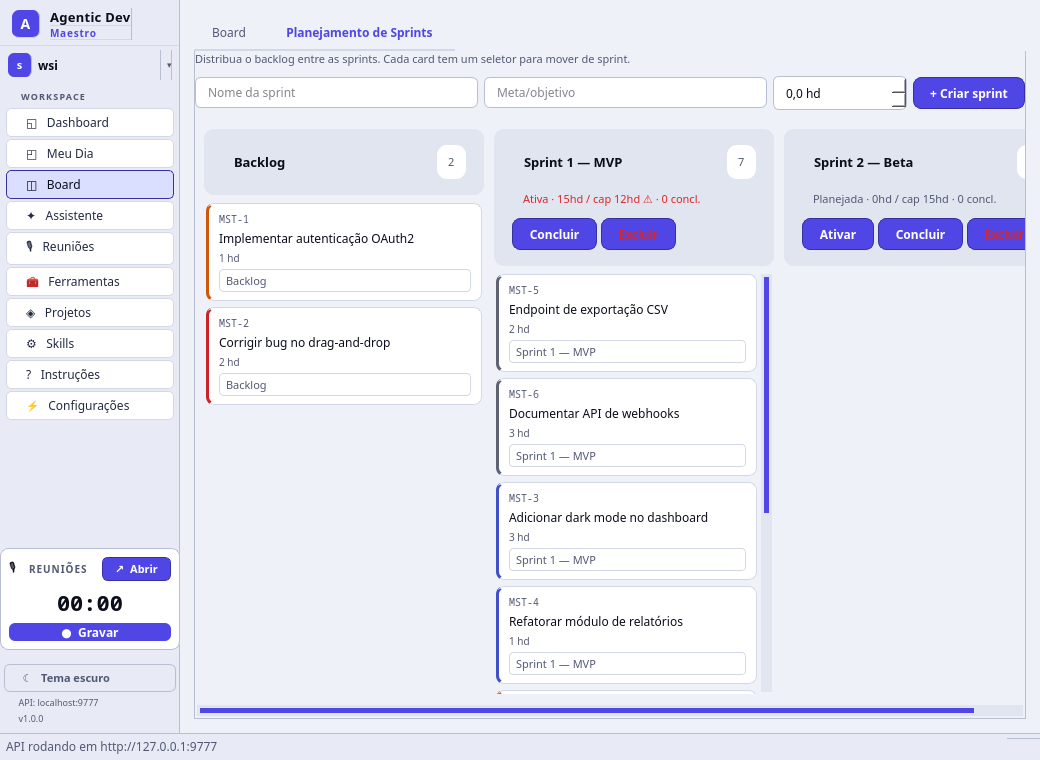
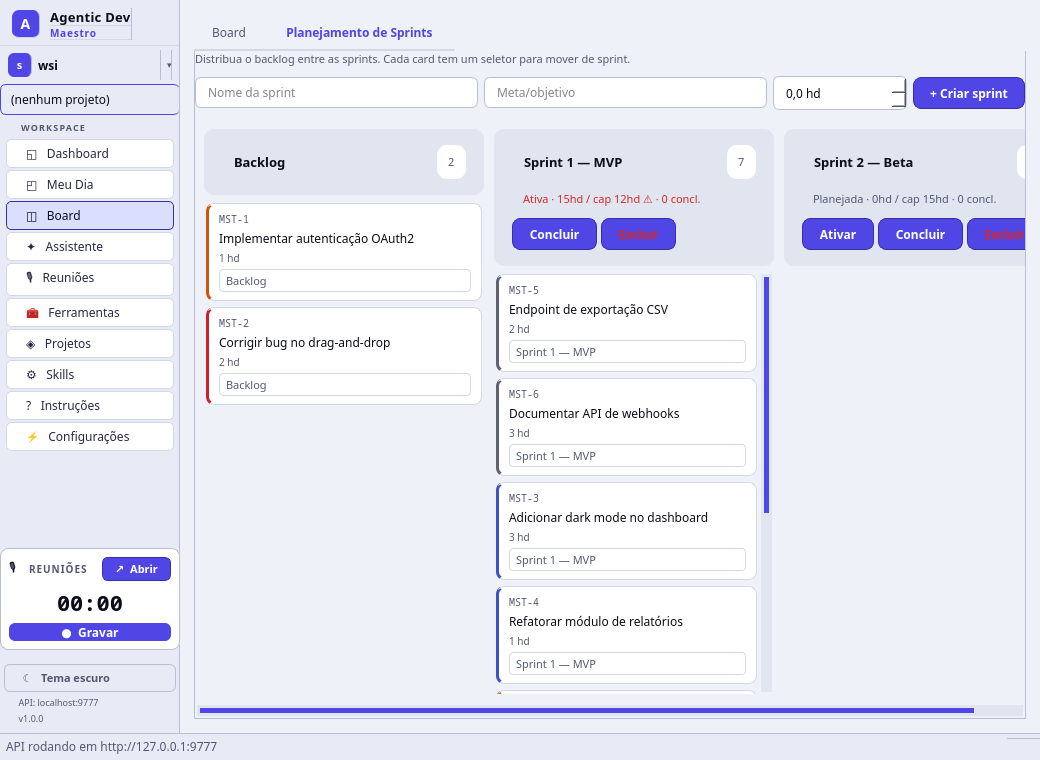
docs: atualizar READMEs e prints com a tela de Reuniões reestruturada
- README (EN/PT): seção de Reuniões reescrita seguindo o fluxo real da tela
  (📁 Destino → 1 Preparar → 2 Gravar → 3 Resultado) e cobrindo o que faltava:
  análise automática, transcrição editável que faz o agente revisar os itens,
  respostas manuais tratadas como informação confirmada, tudo salvo/restaurado
  automaticamente, toggle código/visualização do Markdown, barra de ações
  agrupada, '➕ Nova reunião' e confirmação ao trocar de workspace.
- Prints regenerados: todas as telas refletem a UI atual (inclusive o novo
  seletor de projeto na sidebar).
- gen_screenshots: semeia uma reunião de exemplo no histórico (idempotente),
  para o print mostrar o nome com prefixo de data/hora em vez do estado vazio.

Changed region(s): [[0.0, 0.1211, 0.1846, 0.4539], [0.0308, 0.4842, 0.1231, 0.5447], [0.0615, 0.575, 0.0923, 0.6053]]

diff --git a/local-client/scripts/gen_screenshots.py b/local-client/scripts/gen_screenshots.py
@@ -49,6 +49,31 @@ def seed_demo(session, models):
             # 2 primeiras no backlog; restantes na sprint ativa
             tk.sprint_id = None if i < 2 else s1.id
         session.commit()
+    # Reunião de exemplo no histórico (mostra o nome com prefixo de data/hora)
+    Recording = models.Recording
+    if not session.query(Recording).count():
+        import json as _json
+        from datetime import datetime as _dt
+        session.add(Recording(
+            kind="meeting",
+            title="Exportação de relatórios",
+            transcript=("Ana: precisamos aumentar o limite de linhas da exportação.\n"
+                        "Bruno: hoje trava em 10 mil; o time comercial pediu mais.\n"
+                        "Ana: fechado, 50 mil por arquivo e versionamos por trimestre."),
+            markdown="# Exportação de relatórios\n\n## Decisões\n- Limite de 50 mil linhas\n",
+            live_state_json=_json.dumps({
+                "plan": ["Levantar requisitos", "Prototipar UI", "Implementar e testar"],
+                "tips": ["Validar acessibilidade do tema", "Cobrir exportação com testes"],
+                "action_items": [{"description": "Ajustar validação do CSV", "assignee": "Ana"}],
+                "decisions": ["Limite de 50 mil linhas por arquivo"],
+                "questions": [{"question": "Precisamos versionar os relatórios?",
+                               "answer": "Sim, por trimestre.", "resolved": True}],
+            }, ensure_ascii=False),
+            duration=1830.0, language="pt",
+            created_at=_dt(2026, 7, 13, 9, 30),
+        ))
+        session.commit()
+
     # Plano de estudo
     if not session.query(StudyPlan).count():
         plan = StudyPlan(title="Aprender Rust", category="LINGUAGEM",

diff --git a/README.ptbr.md b/README.ptbr.md
@@ -89,15 +89,22 @@ Assistente de IA interno que roda com seu próprio provedor (LM Studio local, op
 **Coach proativo:** ao longo do dia o agente exibe dicas curtas e acionáveis com base no seu board e TODOs (foco, organização, risco ou uma pausa saudável) num card não intrusivo (desktop **e** web UI). Ele também reage a sinais reais — tarefas paradas (3+ dias sem alteração), WIP alto, TODOs vencidos — cutucando na hora (com cooldown) em vez de só por tempo. Opt-in e configurável em Configurações → Coach proativo (intervalo); também disponível via `GET /api/coach/tip`.
 
 ### Transcrições (Reuniões)
-Grava reuniões e sessões de estudo (microfone e/ou áudio do sistema via PipeWire/PulseAudio), transcreve localmente com faster-whisper e gera resumos estruturados com IA — reuniões viram pontos-chave/decisões/ações; estudos viram conceitos/exercícios/tópicos relacionados. Recursos específicos de reunião:
+Grava reuniões e sessões de estudo (microfone e/ou áudio do sistema via PipeWire/PulseAudio), transcreve localmente com faster-whisper e gera resumos estruturados com IA — reuniões viram pontos-chave/decisões/ações; estudos viram conceitos/exercícios/tópicos relacionados.
 
-- **Modo de preparação** — prepare a reunião antes de começar: escreva a pauta/objetivos e anexe contexto (arquivos, PDFs, imagens ou uma captura de tela; imagens/telas são lidas por um modelo com visão) para o copiloto ao vivo já iniciar sabendo do que se trata.
-- **Copiloto ao vivo** — transcreve e extrai plano, dicas, ações, decisões e perguntas & respostas em tempo real (liga/desliga a qualquer momento), além do campo "perguntar à reunião".
-- **Ver um monitor** — deixe o assistente ver periodicamente uma tela escolhida (lida por um modelo com visão) para ajudar a resolver tarefas na tela; ativável/desativável durante a reunião.
+A tela segue um fluxo explícito: **📁 Destino → 1 Preparar → 2 Gravar → 3 Resultado**.
+
+- **📁 Destino** — workspace e projeto de destino ficam no topo: é para lá que a reunião e as tarefas geradas vão. Trocar de workspace pede confirmação.
+- **1 Preparar** — pauta/objetivos e contexto anexado (arquivos, PDFs, imagens ou uma captura de tela; imagens/telas são lidas por um modelo com visão), para o copiloto já iniciar sabendo do que se trata.
+- **2 Gravar** — fontes de áudio num bloco recolhível (o botão Gravar fica em destaque). Com o **copiloto ao vivo**, plano, dicas, ações, decisões e perguntas & respostas aparecem em tempo real, além do campo "perguntar à reunião".
+- **3 Resultado** — transcrição + resumo e uma barra de ações agrupada: `↻ Analisar com IA │ Documento: Exportar/Copiar │ Enviar para: Criar tarefas/Meu Dia`. O resumo alterna entre **código Markdown e visualização formatada**.
+- **Análise automática** — ao terminar a transcrição o relatório é gerado sozinho (havendo provedor de IA); não é preciso clicar em "Analisar".
+- **Transcrição editável** — corrija o texto a qualquer momento e o agente **revisa os itens** automaticamente.
+- **Respostas manuais** — responda as perguntas do agente nos próprios cards; ele trata as respostas como informação confirmada e não as descarta ao reprocessar.
+- **Tudo salvo automaticamente** — plano/dicas/ações/decisões/perguntas ficam gravados com a reunião; ao reabrir, ela volta exatamente como estava.
+- **Ver um monitor** — deixe o assistente ver periodicamente uma tela escolhida para ajudar a resolver tarefas na tela; ativável/desativável durante a reunião.
 - **Importar de transcrições externas** — crie uma reunião a partir de uma exportação do Meet/Teams (texto, VTT/SRT, PDF, DOCX) e rode a mesma análise.
-- **Destino workspace/projeto** — troque o workspace/projeto de destino pela própria tela da reunião.
-- **Histórico** — pesquisável; excluir, arquivar e reordenar gravações; reuniões nomeadas com prefixo de data/hora.
-- Atalho global **Ctrl+Shift+R** e botão para salvar o resumo no Meu Dia.
+- **Histórico** — pesquisável; **➕ Nova reunião** (começa do zero), excluir, arquivar e reordenar; reuniões nomeadas com prefixo de data/hora.
+- Atalho global **Ctrl+Shift+R**.
 
 Funcionalidades migradas do projeto wsi-cronista.
 

diff --git a/README.md b/README.md
@@ -89,15 +89,22 @@ Internal AI assistant that runs with your own provider (local LM Studio, opencod
 **Proactive coach:** throughout the day the agent surfaces short, actionable tips based on your board and TODOs (focus, organization, risk, or a healthy break) in a non-intrusive card (desktop **and** web UI). It also reacts to real signals — stuck tasks (idle 3+ days), high WIP, overdue TODOs — nudging on the spot (with a cooldown) instead of only on a timer. Opt-in and configurable under Settings → Proactive coach (interval); also available via `GET /api/coach/tip`.
 
 ### Transcriptions (Meetings)
-Records meetings and study sessions (microphone and/or system audio via PipeWire/PulseAudio), transcribes locally with faster-whisper, and generates structured summaries with AI — meetings become key points/decisions/action items; study sessions become concepts/exercises/related topics. Meeting-specific capabilities:
+Records meetings and study sessions (microphone and/or system audio via PipeWire/PulseAudio), transcribes locally with faster-whisper, and generates structured summaries with AI — meetings become key points/decisions/action items; study sessions become concepts/exercises/related topics.
 
-- **Preparation mode** — brief the meeting before it starts: write the agenda/goals and attach context (files, PDFs, images, or a screenshot; images/screens are read by a vision model) so the live copilot begins already aware of what it's about.
-- **Live copilot** — transcribes and extracts plan, tips, actions, decisions, and Q&A in real time (toggle any time), plus an "ask the meeting" box.
-- **Watch a monitor** — let the assistant periodically see a chosen screen (read by a vision model) to help solve on-screen tasks; toggleable during the meeting.
+The screen follows an explicit flow: **📁 Destination → 1 Prepare → 2 Record → 3 Result**.
+
+- **📁 Destination** — the target workspace and project sit at the top: that's where the meeting and generated tasks go. Switching workspace asks for confirmation.
+- **1 Prepare** — agenda/goals plus attached context (files, PDFs, images, or a screenshot; images/screens are read by a vision model), so the copilot starts already knowing what it's about.
+- **2 Record** — audio sources live in a collapsible block (the Record button stays prominent). With the **live copilot**, plan, tips, actions, decisions and Q&A appear in real time, plus an "ask the meeting" box.
+- **3 Result** — transcript + summary and a grouped action bar: `↻ Analyze with AI │ Document: Export/Copy │ Send to: Create tasks/My Day`. The summary toggles between **Markdown source and formatted preview**.
+- **Automatic analysis** — when transcription finishes the report is generated on its own (with an AI provider configured); no need to click "Analyze".
+- **Editable transcript** — fix the text at any time and the agent **reviews the items** automatically.
+- **Manual answers** — answer the agent's questions right on the cards; it treats those answers as confirmed information and won't discard them when reprocessing.
+- **Everything saved automatically** — plan/tips/actions/decisions/questions are stored with the meeting; reopening restores it exactly as it was.
+- **Watch a monitor** — let the assistant periodically see a chosen screen to help solve on-screen tasks; toggleable during the meeting.
 - **Import from external transcripts** — create a meeting from a Meet/Teams export (text, VTT/SRT, PDF, DOCX) and run the same analysis.
-- **Workspace/project routing** — switch the target workspace/project from the meeting screen.
-- **History** — searchable; delete, archive, and reorder recordings; meetings are named with a date/time prefix.
-- Global **Ctrl+Shift+R** shortcut and a button to save the summary to My Day.
+- **History** — searchable; **➕ New meeting** (starts from scratch), delete, archive and reorder; meetings are named with a date/time prefix.
+- Global **Ctrl+Shift+R** shortcut.
 
 Features migrated from the wsi-cronista project.
 
